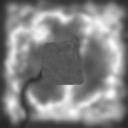
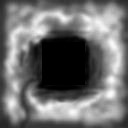
Flat area in terrain is now in the right plane

Changed region(s): [[0.125, 0.2188, 0.8125, 0.8125]]

diff --git a/projectB/MyScene.js b/projectB/MyScene.js
@@ -38,8 +38,8 @@ class MyScene extends CGFscene {
         this.axis = new CGFaxis(this);
         this.scaleFactor = 1;
 
-        //this.plane = new MyTerrain(this, 32);
-        this.testFloor = new MyQuad(this);
+        this.plane = new MyTerrain(this, 32);
+        // this.testFloor = new MyQuad(this);
 
 
 
@@ -100,9 +100,7 @@ class MyScene extends CGFscene {
             console.log("meias")
             if (!this.bird.lookNest(this.nest, this.branches))
                 this.bird.lookBranches(this.branches);
-            
         }
-
 
         this.bird.updatePosition(t / 100 % 1000);
         this.checkKeys();
@@ -151,17 +149,17 @@ class MyScene extends CGFscene {
 
     displayScene() {
 
-        /*this.pushMatrix();
+        this.pushMatrix();
         this.rotate(-0.5 * Math.PI, 1, 0, 0);
         this.scale(60, 60, 1);
         this.plane.display();
-        this.popMatrix();*/
-
-        this.pushMatrix();
-        this.scale(60, 60, 60);
-        this.rotate(Math.PI / 2, 1, 0, 0);
-        this.testFloor.display();
         this.popMatrix();
+
+        // this.pushMatrix();
+        // this.scale(60, 60, 60);
+        // this.rotate(Math.PI / 2, 1, 0, 0);
+        // this.testFloor.display();
+        // this.popMatrix();
 
         this.pushMatrix()
         this.scale(4, 4, 4)

diff --git a/projectB/MyCubeMap.js b/projectB/MyCubeMap.js
@@ -14,10 +14,10 @@ class MyCubeMap extends CGFobject {
 
 	initBuffers() {
 		this.vertices = [
-			-0.5, -0.5, -0.5, // P - 0
-			0.5, -0.5, -0.5, // Q - 1
-			0.5, -0.5, 0.5, // R - 2                
-			-0.5, -0.5, 0.5, // S - 3
+			// -0.5, -0.5, -0.5, // P - 0
+			// 0.5, -0.5, -0.5, // Q - 1
+			// 0.5, -0.5, 0.5, // R - 2                
+			// -0.5, -0.5, 0.5, // S - 3
 
 			-0.5, 0.5, -0.5, // P - 4 - 0
 			0.5, 0.5, -0.5, // Q - 5 - 1
@@ -46,8 +46,8 @@ class MyCubeMap extends CGFobject {
 		]
 
 		this.indices = [
-			1, 0, 3,
-			3, 2, 1,
+			// 1, 0, 3,
+			// 3, 2, 1,
 
 			7, 4, 5,
 			5, 6, 7,
@@ -66,10 +66,10 @@ class MyCubeMap extends CGFobject {
 		]
 
 		this.normals = [
-			0, 1, 0,
-			0, 1, 0,
-			0, 1, 0,
-			0, 1, 0,
+			// 0, 1, 0,
+			// 0, 1, 0,
+			// 0, 1, 0,
+			// 0, 1, 0,
 
 			0, -1, 0,
 			0, -1, 0,
@@ -98,10 +98,10 @@ class MyCubeMap extends CGFobject {
 		]
 
 		this.texCoords = [
-			0.25, 0.5,
-			0.5, 0.5,
-			0.5, 0.75,
-			0.25, 0.75,
+			// 0.25, 0.5,
+			// 0.5, 0.5,
+			// 0.5, 0.75,
+			// 0.25, 0.75,
 
 			0.25, 0,
 			0.5, 0,
